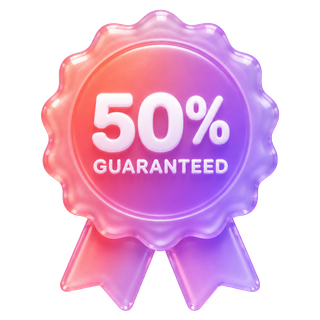
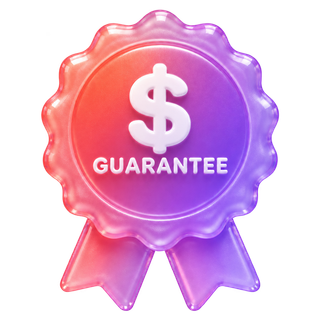
Guarantee badge with a dollar sign; drag the salary bar directly
- Badge now reads "\$ / Guarantee" instead of repeating 50%
- Calculator: removed the separate slider; the Human hire bar has a drag
  handle (pointer, touch and keyboard) and the AI bar and savings follow it

diff --git a/src/components/sections/CostChart.tsx b/src/components/sections/CostChart.tsx
@@ -1,23 +1,74 @@
 "use client";
 
-import { useState } from "react";
+import { useCallback, useRef, useState } from "react";
 import { motion } from "framer-motion";
+import { ChevronsLeftRight } from "lucide-react";
 import { costChart } from "@/content/copy";
 import { formatMoney, guarantee } from "@/config";
 import { Reveal } from "@/components/ui/Section";
 
+const MAX = 120000;
+const MIN = 20000;
+const STEP = 1000;
+
+const clamp = (v: number) => Math.min(MAX, Math.max(MIN, Math.round(v / STEP) * STEP));
+
 /**
- * Savings calculator. Every number on screen is the visitor's own input or the
- * published guarantee applied to it. Nothing is invented.
+ * Savings calculator. The "Human hire" bar is the control: drag its handle (or
+ * use the arrow keys on it) to set the salary. Every number on screen is the
+ * visitor's own input or the published guarantee applied to it.
  */
 export function CostChart() {
   const [wage, setWage] = useState(48000);
+  const [dragging, setDragging] = useState(false);
+  const [touched, setTouched] = useState(false);
+  const trackRef = useRef<HTMLDivElement>(null);
+
   const pct = guarantee.salarySavingsPercent;
-  const max = 120000;
   const aiMax = Math.round((wage * (100 - pct)) / 100);
   const saved = wage - aiMax;
-  const humanPct = Math.round((wage / max) * 100);
-  const aiPct = Math.round((aiMax / max) * 100);
+  // Both bars share one scale (0 to MAX) so the AI bar is visibly half the human one.
+  const humanPct = (wage / MAX) * 100;
+  const aiPct = (aiMax / MAX) * 100;
+
+  const setFromPointer = useCallback((clientX: number) => {
+    const el = trackRef.current;
+    if (!el) return;
+    const rect = el.getBoundingClientRect();
+    const ratio = (clientX - rect.left) / rect.width;
+    setWage(clamp(ratio * MAX));
+  }, []);
+
+  const onPointerDown = (e: React.PointerEvent<HTMLDivElement>) => {
+    e.currentTarget.setPointerCapture(e.pointerId);
+    setDragging(true);
+    setTouched(true);
+    setFromPointer(e.clientX);
+  };
+  const onPointerMove = (e: React.PointerEvent<HTMLDivElement>) => {
+    if (dragging) setFromPointer(e.clientX);
+  };
+  const endDrag = () => setDragging(false);
+
+  const onKeyDown = (e: React.KeyboardEvent<HTMLDivElement>) => {
+    const moves: Record<string, number> = {
+      ArrowRight: STEP,
+      ArrowUp: STEP,
+      ArrowLeft: -STEP,
+      ArrowDown: -STEP,
+      PageUp: STEP * 10,
+      PageDown: -STEP * 10,
+    };
+    if (e.key in moves) {
+      e.preventDefault();
+      setTouched(true);
+      setWage((w) => clamp(w + moves[e.key]));
+    } else if (e.key === "Home" || e.key === "End") {
+      e.preventDefault();
+      setTouched(true);
+      setWage(e.key === "Home" ? MIN : MAX);
+    }
+  };
 
   return (
     <Reveal className="mt-16">
@@ -26,56 +77,75 @@ export function CostChart() {
           <p className="label-mono text-violet-deep">{costChart.eyebrow}</p>
           <h3 className="mt-2 text-2xl font-semibold tracking-[-0.03em] sm:text-3xl">{costChart.title}</h3>
           <p className="mt-3 text-muted">{costChart.sub}</p>
-
-          <div className="mt-7">
-            <label htmlFor="wage" className="mb-2 flex items-baseline justify-between text-sm font-semibold">
-              {costChart.sliderLabel}
-              <span className="font-display text-lg tabular-nums">{formatMoney(wage)}</span>
-            </label>
-            <input
-              id="wage"
-              type="range"
-              min={25000}
-              max={max}
-              step={1000}
-              value={wage}
-              onChange={(e) => setWage(Number(e.target.value))}
-              className="h-2 w-full cursor-pointer appearance-none rounded-full bg-ink/10 accent-[#9452F2]"
-            />
-          </div>
           <p className="mt-6 text-sm leading-relaxed text-muted">{costChart.footnote}</p>
         </div>
 
         <div className="space-y-6">
+          {/* Human hire: the draggable bar */}
           <div>
             <div className="mb-2 flex items-baseline justify-between gap-3">
               <span className="font-semibold">{costChart.humanLabel}</span>
               <span className="font-display text-xl font-semibold tabular-nums sm:text-2xl">{formatMoney(wage)}</span>
             </div>
-            <div className="h-11 overflow-hidden rounded-xl bg-ink/[0.06]">
+            <div
+              ref={trackRef}
+              onPointerDown={onPointerDown}
+              onPointerMove={onPointerMove}
+              onPointerUp={endDrag}
+              onPointerCancel={endDrag}
+              className={`relative h-11 touch-none rounded-xl bg-ink/[0.06] select-none ${
+                dragging ? "cursor-grabbing" : "cursor-pointer"
+              }`}
+            >
               <motion.div
-                className="h-full rounded-xl bg-ink/70"
+                className="absolute inset-y-0 left-0 rounded-xl bg-ink/70"
                 initial={false}
                 animate={{ width: `${humanPct}%` }}
-                transition={{ duration: 0.4, ease: [0.22, 1, 0.36, 1] }}
+                transition={dragging ? { duration: 0 } : { duration: 0.3, ease: [0.22, 1, 0.36, 1] }}
               />
+              {/* Handle */}
+              <motion.div
+                role="slider"
+                tabIndex={0}
+                aria-label={costChart.sliderLabel}
+                aria-valuemin={MIN}
+                aria-valuemax={MAX}
+                aria-valuenow={wage}
+                aria-valuetext={`${formatMoney(wage)} a year`}
+                onKeyDown={onKeyDown}
+                className={`absolute top-1/2 grid size-9 -translate-x-1/2 -translate-y-1/2 place-items-center rounded-full bg-white text-ink shadow-[0_6px_18px_-4px_rgba(14,11,31,0.45)] ring-1 ring-ink/10 outline-none focus-visible:ring-4 focus-visible:ring-violet/40 ${
+                  dragging ? "cursor-grabbing scale-110" : "cursor-grab"
+                } transition-transform`}
+                initial={false}
+                animate={{ left: `${humanPct}%` }}
+                transition={dragging ? { duration: 0 } : { duration: 0.3, ease: [0.22, 1, 0.36, 1] }}
+              >
+                <ChevronsLeftRight className="size-4" strokeWidth={2.5} aria-hidden />
+                {!touched && (
+                  <span
+                    aria-hidden
+                    className="pointer-events-none absolute inset-0 animate-ping rounded-full ring-2 ring-violet/50"
+                  />
+                )}
+              </motion.div>
             </div>
-            <p className="mt-1.5 text-sm text-muted">{costChart.humanSub}</p>
+            <p className="mt-1.5 text-sm text-muted">
+              <span className="font-medium text-violet-deep">{costChart.dragHint}.</span> {costChart.humanSub}
+            </p>
           </div>
 
+          {/* AI Employee: follows the human bar */}
           <div>
             <div className="mb-2 flex items-baseline justify-between gap-3">
               <span className="font-semibold">{costChart.aiLabel}</span>
-              <span className="font-display text-xl font-semibold tabular-nums sm:text-2xl">
-                ≤ {formatMoney(aiMax)}
-              </span>
+              <span className="font-display text-xl font-semibold tabular-nums sm:text-2xl">≤ {formatMoney(aiMax)}</span>
             </div>
             <div className="h-11 overflow-hidden rounded-xl bg-ink/[0.06]">
               <motion.div
                 className="bg-signal h-full rounded-xl shadow-[0_8px_24px_-10px_rgba(148,82,242,0.9)]"
                 initial={false}
                 animate={{ width: `${aiPct}%` }}
-                transition={{ duration: 0.5, ease: [0.22, 1, 0.36, 1] }}
+                transition={dragging ? { duration: 0 } : { duration: 0.4, ease: [0.22, 1, 0.36, 1] }}
               />
             </div>
             <p className="mt-1.5 text-sm text-muted">{costChart.aiSub}</p>

diff --git a/content/copy.ts b/content/copy.ts
@@ -141,7 +141,7 @@ export const solution = {
 
 export const guarantee = {
   /** 3D seal shown at the top of the section. */
-  badge: { src: "/guarantee/badge.png", alt: "50% guaranteed savings seal" },
+  badge: { src: "/guarantee/badge.png", alt: "Guarantee seal with a dollar sign" },
   percent: 50,
   title: "Save at least 50% of the salary. Guaranteed.",
   sub: "We build AI Employees that do the same job faster, more reliably, and without any days off. And the best part? We guarantee that the cost of your AI Employee will be AT LEAST 50% cheaper than what you were planning to pay your new hire.",
@@ -233,6 +233,7 @@ export const costChart = {
   sliderLabel: "Annual salary for this role",
   humanLabel: "Human hire",
   humanSub: "Base salary, before taxes, benefits and overhead",
+  dragHint: "Drag the bar to set the salary",
   aiLabel: "AI Employee",
   aiSub: "Guaranteed maximum. Most come in well under.",
   savedLabel: "You keep at least",
